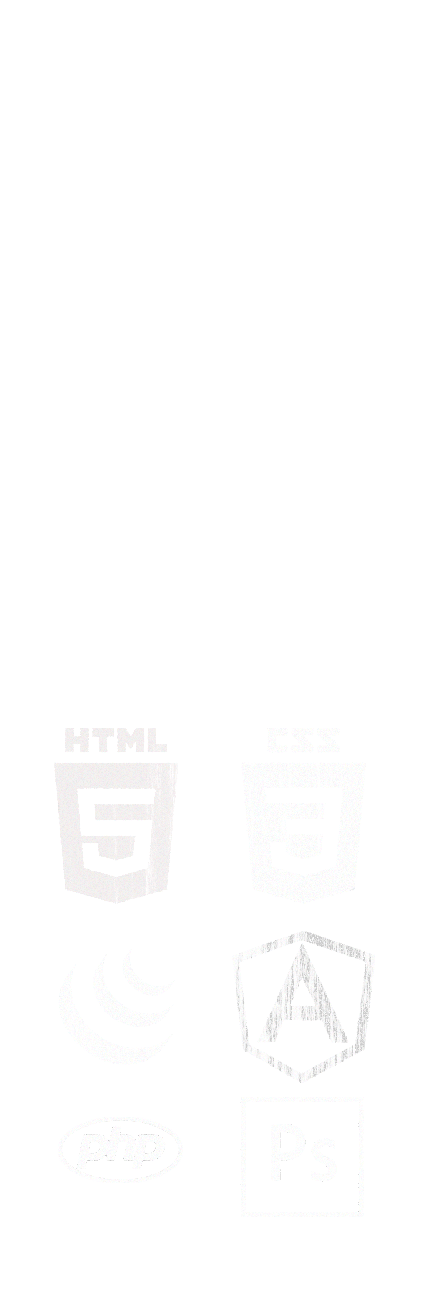
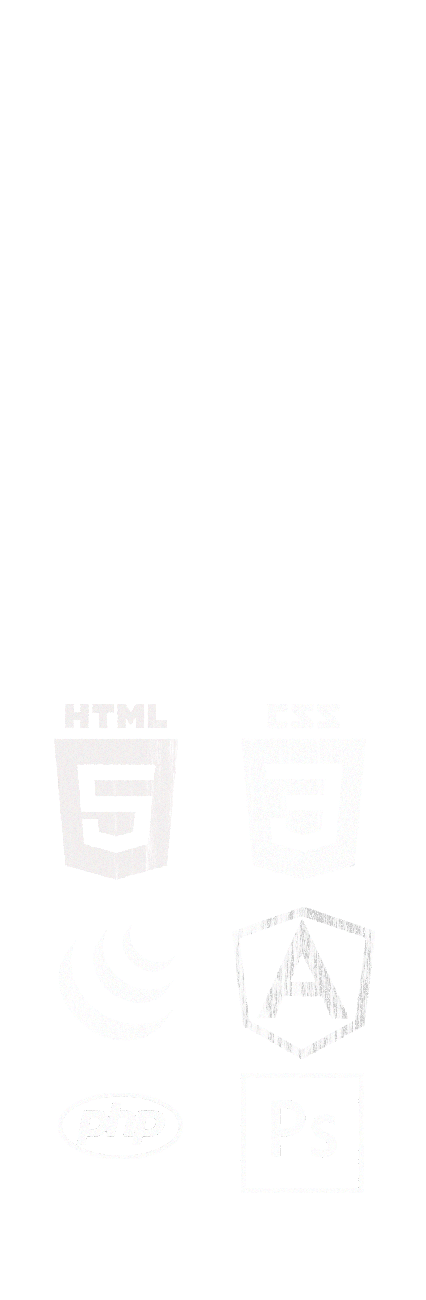
Sep 11 - Adjusted small screen font-sizes and adjusted skills png y-position

Changed region(s): [[0.6714, 0.6769, 0.885, 0.8308], [0.6103, 0.7692, 0.6714, 0.8], [0.6103, 0.7077, 0.6408, 0.7385]]

diff --git a/css/styles.css b/css/styles.css
@@ -561,6 +561,10 @@ a:link, a:hover, a:active, a:visited {
         font-size: 1.1em;
     }
     
+    #site-links {
+        margin: 0 5px;
+    }
+    
 }
 /* ========================== 320px ================================== */
 @media (max-width: 479px) {
@@ -594,11 +598,15 @@ a:link, a:hover, a:active, a:visited {
         font-size: 0.8em;
         padding-top: 10px;
     }
+    
+    #my-info ul {
+        margin-bottom: 10px;
+    }
     .ul-wrapper:first-child {
         margin-bottom: 10px;
     }
     #project-info {
-        font-size: 1.1em;
+        font-size: 1em;
         padding-top: 10px;
         height: 370px;
     }
